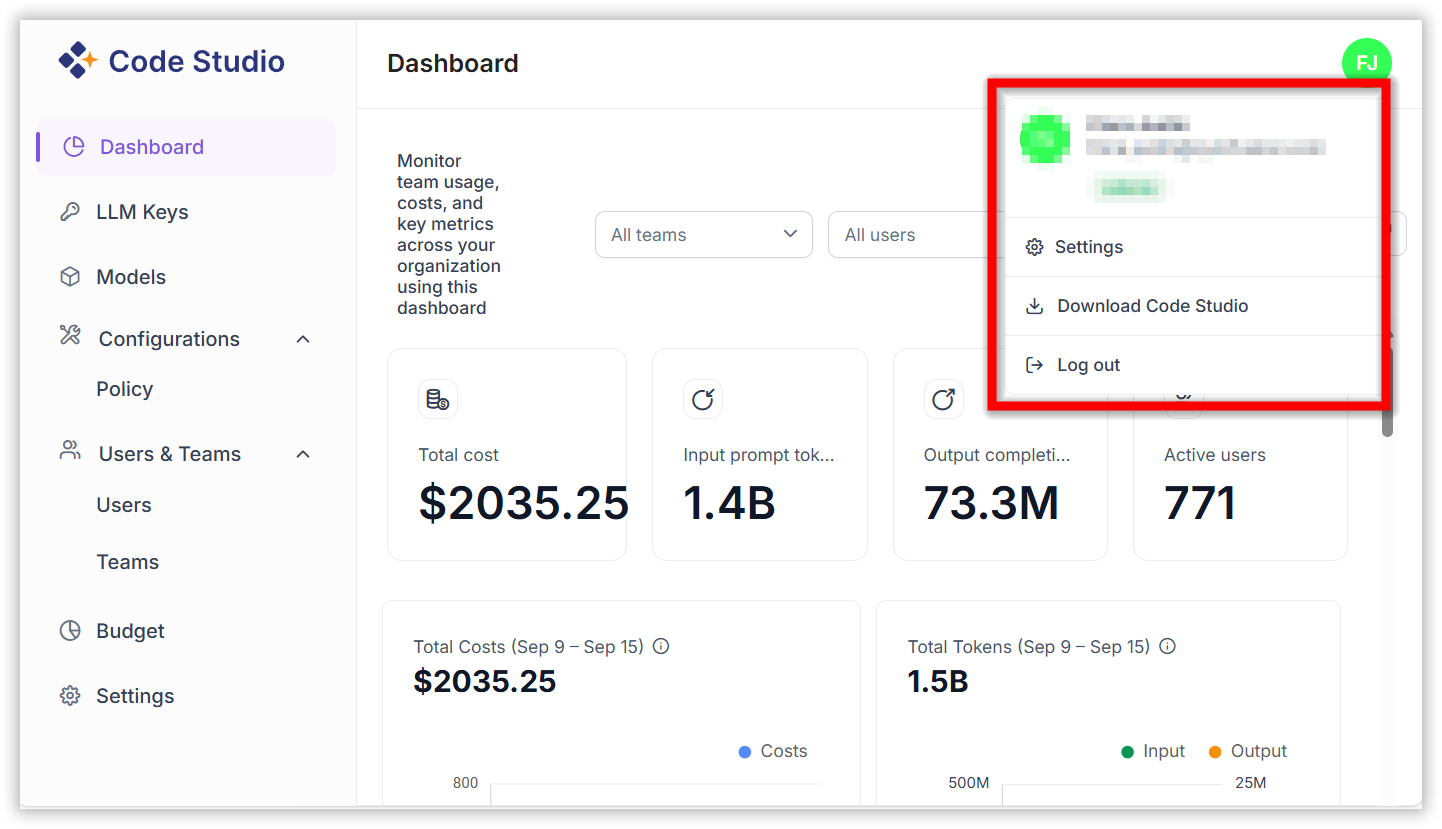
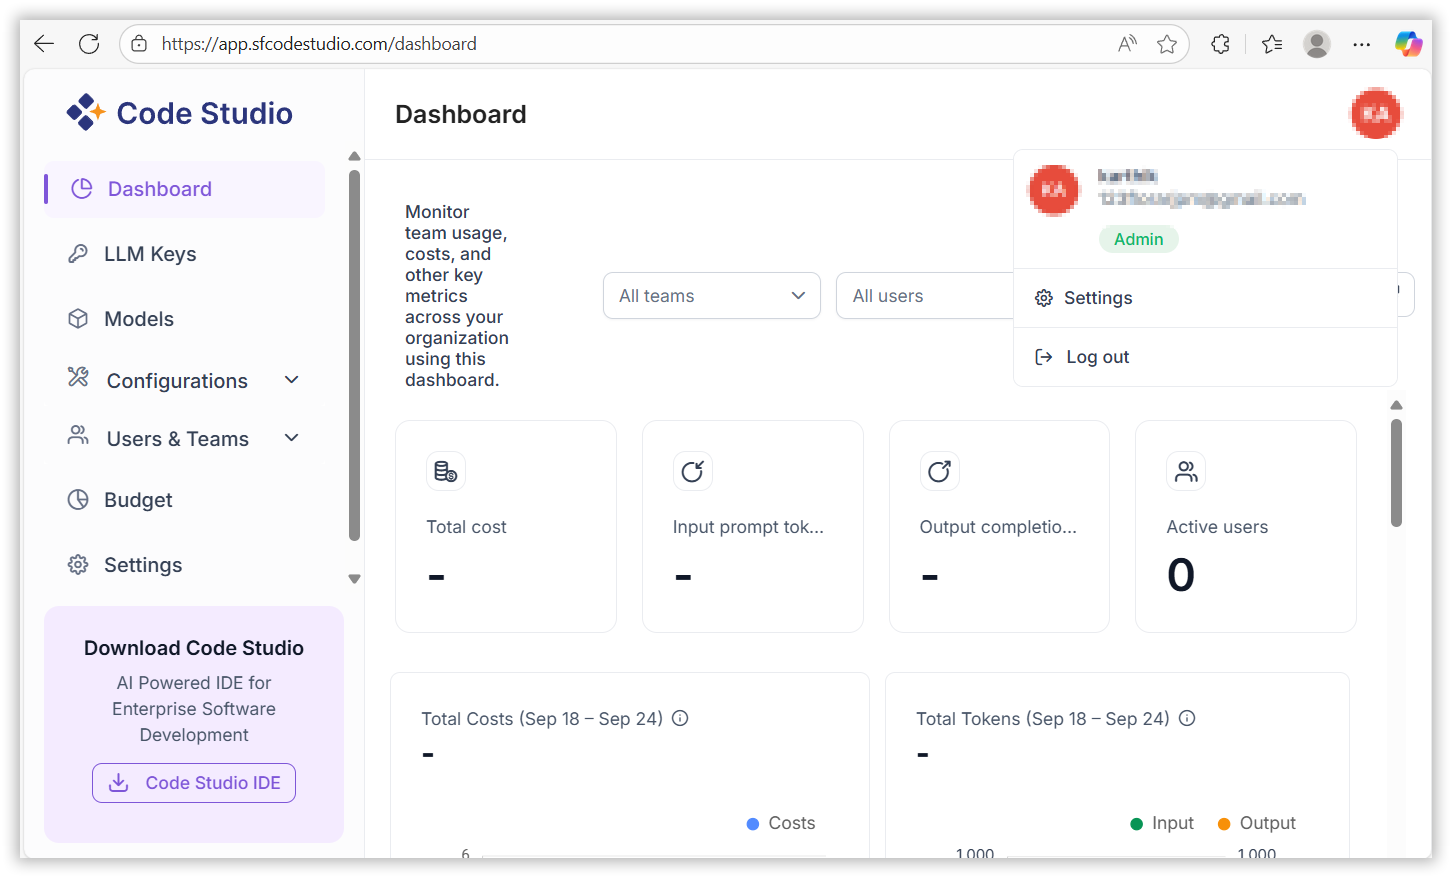
changes installation steps

diff --git a/code-studio-toc.html b/code-studio-toc.html
@@ -180,13 +180,13 @@
     <li>Release Notes
         <ul>
             <li>
-                <a href="/code-studio/release-notes/v0.1.0">v0.1.0</a>
+                <a href="/code-studio/release-notes/v1.0.0">v1.0.0</a>
             </li>
             <li>
                 <a href="/code-studio/release-notes/v0.2.0">v0.2.0</a>
             </li>
-             <li>
-                <a href="/code-studio/release-notes/v1.0.0">v1.0.0</a>
+            <li>
+                <a href="/code-studio/release-notes/v0.1.0">v0.1.0</a>
             </li>
         </ul>
     </li>

diff --git a/code-studio/get-started/windows.md b/code-studio/get-started/windows.md
@@ -25,7 +25,15 @@ The installation process for **Syncfusion code studio IDE** is straightforward a
 ### Step 1: Start Installation
 
 - Visit the official website: [Syncfusion code studio](https://www.syncfusion.com/code-studio)
-- Click on the **Download** button to obtain the installer for Windows.
+- Click the **Get Started Now** button.
+  <img src="./getting-started-image/windowsgetstarted.png" alt="Get Started Now"  />
+- Follow the instructions to sign in with [Syncfusion code studio](/code-studio/enterprise-server/getting-started)
+- Click on the download code studio ide.
+  <img src="./getting-started-image/downloadcodestudio.png" alt="download code studio ide"  />
+- A list of download options will appear.
+  <img src="./getting-started-image/downloadoptions.png" alt="download code studio ide"  />
+- Click the **Download Code Editor** option to begin downloading the IDE to your machine.
+  <img src="./getting-started-image/downloadicon.png" alt="download code studio ide"  />
 - Double-click the installer to begin the installation process.
 - The installation wizard will appear on the screen.
 

diff --git a/code-studio/get-started/mac.md b/code-studio/get-started/mac.md
@@ -27,7 +27,15 @@ The installation process for **Syncfusion code studio IDE** on macOS is straight
 ###  Step 1: Start Installation
 
 - Visit the official website: [Syncfusion code studio](https://www.syncfusion.com/code-studio)
-- Click on the **Download** button to obtain the installer for **macOS**.
+- Click the **Get Started Now** button.
+  <img src="./getting-started-image/windowsgetstarted.png" alt="Get Started Now"  />
+- Follow the instructions to sign in with [Syncfusion code studio](/code-studio/enterprise-server/getting-started)
+- Click on the download code studio ide.
+  <img src="./getting-started-image/downloadcodestudio.png" alt="download code studio ide"  />
+- A list of download options will appear.
+  <img src="./getting-started-image/downloadoptions.png" alt="download code studio ide"  />
+- Click the **Download Code Editor** option to begin downloading the IDE to your machine.
+  <img src="./getting-started-image/downloadicon.png" alt="download code studio ide"  />
 - Double-click the downloaded `.dmg` file.
 
 ###  Step 2: Install the App

diff --git a/code-studio/enterprise-server/getting-started.md b/code-studio/enterprise-server/getting-started.md
@@ -29,12 +29,8 @@ You can sign in using one of the following methods:
 Once signed in:
 
 - You’ll be directed to the Dashboard.  
-- Click on your **Profile Icon** to access:
-  - **Settings**
-  - **Download Code Studio**
-- From the profile menu, click **Download Code Studio** to get the setup file.
-
-<img src="./enterprise-images/profile.png" alt="getting started" />
+- Click on your **Profile Icon** to access **Settings**
+  <img src="./enterprise-images/profile.png" alt="getting started" />
 
 ### 3. Managing Settings
 

diff --git a/code-studio/reference/configure-the-code-studio.md b/code-studio/reference/configure-the-code-studio.md
@@ -11,7 +11,7 @@ The Syncfusion code studio can be configured using the `config.yaml` specificati
 1. Open the settings of Syncfusion code studio chat
 2. And click `Open Config File`
 
-<img src="./reference-images/config-cody.png" alt="open config file"  />
+<img src="./reference-images/openconfig.png" alt="open config file"  />
 
 You add your configuration setting in the opened `config.yaml` file.
 
